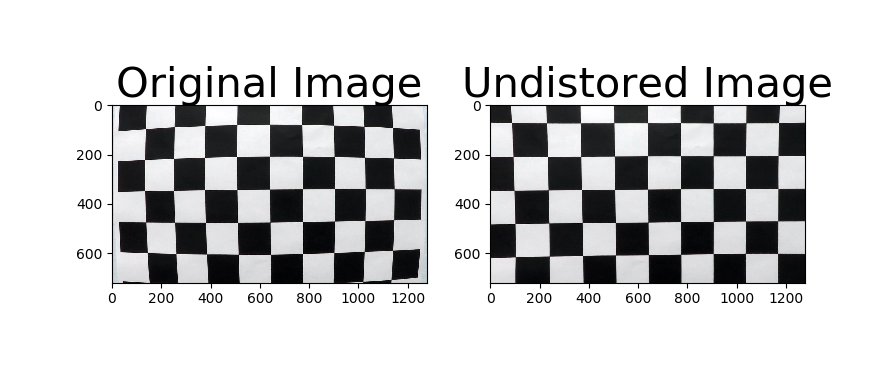
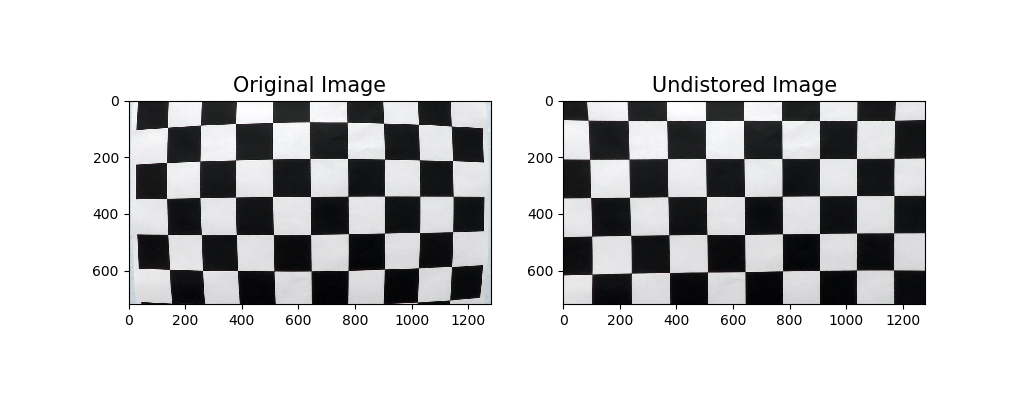
undistort the test_images

diff --git a/helpers.py b/helpers.py
@@ -1,0 +1,75 @@
+import numpy as np 
+import cv2
+import matplotlib.pyplot as plt 
+import matplotlib.image as mpimg
+
+def color_grid_thresh(img, s_thresh=(170,255), sx_thresh=(20, 100)):
+	img = np.copy(img)
+	# Convert to HLS color space and separate the V channel
+	hls = cv2.cvtColor(img, cv2.COLOR_RGB2HLS)
+	l_channel = hls[:,:,1]
+	s_channel = hls[:,:,2]
+	# Sobel x
+	sobelx = cv2.Sobel(l_channel, cv2.CV_64F, 1, 0) # Take the derivateive in x
+	abs_sobelx = np.absolute(sobelx) # Absolute x derivateive to accentuate lines
+	scaled_sobel = np.uint8(255*abs_sobelx/np.max(abs_sobelx))
+
+	# Threshold x gradient
+	sxbinary = np.zeros_like(scaled_sobel)
+	sxbinary[(scaled_sobel >= sx_thresh[0]) & (scaled_sobel <= sx_thresh[1])] = 1
+
+	# Threshold color channel
+	s_binary = np.zeros_like(s_channel)
+	s_binary[(s_channel >= s_thresh[0]) & (s_channel <= s_thresh[1])] = 1
+
+	# combine the two binary
+	binary = sxbinary | s_binary
+
+	# Stack each channel (for visual check the pixal sourse)
+	# color_binary = np.dstack((np.zeros_like(sxbinary), sxbinary,s_binary)) * 255
+	return binary
+
+
+
+
+# # Define a class to receive the characteristics of each line detection
+# class Line():
+# 	def __init__(self):
+# 		# was the line detected in the last iteration?
+# 		self.detected = Flase
+# 		# x values of the last n fits of the line
+# 		self.recent_xfitted = []
+# 		# average x values of the fitted line over the last n iterations
+# 		self.bestx = None
+# 		# polynomial coefficients for the most recent fit
+# 		self.current_fit = [np.array([Flase])]
+# 		# radius of curvature of the line in some units
+# 		self.radius_of_curvature = None
+# 		# distance in meters of vechicle center from the line
+# 		self.line_base_pos = None
+# 		# difference in fit coefficients between last and new fits
+# 		self.diffs = np.array([0,0,0], dtype='float')
+# 		# x values for detected line pixels
+# 		self.allx = None
+# 		# y values for detected line pixels
+# 		self.ally = None
+
+
+# # Drawing
+# # Create an image to draw the lines on
+# warp_zero = np.zeros_like(warped).astype(np.uint8)
+# color_warp = np.dstack((warp_zero, warp_zero, warp_zero))
+
+# # Recast the x and y points into usable format for cv2.fillPoly()
+# pts_left = np.array([np.transpose(np.vstack([left_fitx, ploty]))])
+# pts_right = np.array([np.flipud(np.transpose(np.vstack([right_fitx, ploty])))])
+# pts = np.hstack((pts_left, pts_right))
+
+# # Draw the lane onto the warped blank image
+# cv2.fillPoly(color_warp, np.int_([pts]), (0,255,0))
+
+# # Warp the blank back to original image space using inverse perspective matrix(Minv)
+# newwarp = cv2.warpPerspective(color_warp, Minv, (image.shape[1], image.shape[0]))
+# # Combine the result with the original image
+# result = cv2.addWeighted(undist, 1, newwarp, 0.3, 0)
+# plt.imshow(result)

diff --git a/pipeline.py b/pipeline.py
@@ -1,0 +1,41 @@
+import numpy as np 
+import cv2
+import matplotlib.pyplot as plt 
+import matplotlib.image as mpimg
+import pickle
+import glob
+
+from helpers import *
+
+# Read the pickle file
+pickle_file = open("camera_cal/camera_cal.p", "rb")
+dist_pickle = pickle.load(pickle_file)
+mtx = dist_pickle["mtx"]  
+dist = dist_pickle["dist"]
+
+# Read image
+image = cv2.imread("test_images/test5.jpg")
+
+# distort the image
+image_dist = cv2.undistort(image, mtx, dist, None, mtx)
+
+# Undistort the images in test image folder
+image_files = glob.glob("test_images/*.jpg")
+for idx, file in enumerate(image_files):
+	print(file)
+	img = cv2.imread(file)
+	image_dist = cv2.undistort(img, mtx, dist, None, mtx)
+	file_name = file.split("\\")[-1]
+	print(file_name)
+	out_image = "output_images/undistort/"+file_name
+	print(out_image)
+	cv2.imwrite(out_image, image_dist)
+
+
+# # apply thresholding
+# s_thresh=(170,255)
+# sx_thresh=(20, 100)
+# image_threshed = color_grid_thresh(image_dist, s_thresh=s_thresh, sx_thresh=sx_thresh)
+
+# plt.imshow(image_threshed, cmap='gray')
+# plt.show()

diff --git a/camera_cal/camera_calibration.py b/camera_cal/camera_calibration.py
@@ -62,8 +62,8 @@ pickle.dump(dist_pickle, open("camera_cal.p", "wb"))
 # Visualize undistortion
 f, (ax1,ax2) = plt.subplots(1,2, figsize=(20,10))
 ax1.imshow(img)
-ax1.set_title('Original Image', fontsize=30)
+ax1.set_title('Original Image', fontsize=15)
 ax2.imshow(dst)
-ax2.set_title('Undistored Image', fontsize=30)
+ax2.set_title('Undistored Image', fontsize=15)
 
 plt.show()

diff --git a/helper/view_perspective.py b/helper/view_perspective.py
@@ -1,0 +1,6 @@
+import numpy as np 
+import cv2
+import matplotlib.pyplot as plt 
+import matplotlib.image as mpimg
+
+image = mpimg.imread()

diff --git a/README.md b/README.md
@@ -1,9 +1,122 @@
 
+**Advanced Lane Finding Project**
 
-### Steps
-1. camera calibration
-2. distorition correction
-3. color & gradient threshold
-4. perspective transform
-5. detect lane lines
-6. determine the lan curvature
+The goals / steps of this project are the following:
+
+* Compute the camera calibration matrix and distortion coefficients given a set of chessboard images.
+* Apply a distortion correction to raw images.
+* Use color transforms, gradients, etc., to create a thresholded binary image.
+* Apply a perspective transform to rectify binary image ("birds-eye view").
+* Detect lane pixels and fit to find the lane boundary.
+* Determine the curvature of the lane and vehicle position with respect to center.
+* Warp the detected lane boundaries back onto the original image.
+* Output visual display of the lane boundaries and numerical estimation of lane curvature and vehicle position.
+
+[//]: # (Image References)
+
+[image1]: ./examples/undistort_output.png "Undistorted"
+[image2]: ./test_images/test1.jpg "Road Transformed"
+[image3]: ./examples/binary_combo_example.jpg "Binary Example"
+[image4]: ./examples/warped_straight_lines.jpg "Warp Example"
+[image5]: ./examples/color_fit_lines.jpg "Fit Visual"
+[image6]: ./examples/example_output.jpg "Output"
+[video1]: ./project_video.mp4 "Video"
+
+## [Rubric](https://review.udacity.com/#!/rubrics/571/view) Points
+
+### Here I will consider the rubric points individually and describe how I addressed each point in my implementation.  
+
+---
+
+### Writeup / README
+
+#### 1. Provide a Writeup / README that includes all the rubric points and how you addressed each one.  You can submit your writeup as markdown or pdf.  [Here](https://github.com/udacity/CarND-Advanced-Lane-Lines/blob/master/writeup_template.md) is a template writeup for this project you can use as a guide and a starting point.  
+
+You're reading it!
+
+### Camera Calibration
+
+#### 1. Briefly state how you computed the camera matrix and distortion coefficients. Provide an example of a distortion corrected calibration image.
+
+The code for this step is contained in the first code cell of the IPython notebook located in "./examples/example.ipynb" (or in lines # through # of the file called `some_file.py`).  
+
+I start by preparing "object points", which will be the (x, y, z) coordinates of the chessboard corners in the world. Here I am assuming the chessboard is fixed on the (x, y) plane at z=0, such that the object points are the same for each calibration image.  Thus, `objp` is just a replicated array of coordinates, and `objpoints` will be appended with a copy of it every time I successfully detect all chessboard corners in a test image.  `imgpoints` will be appended with the (x, y) pixel position of each of the corners in the image plane with each successful chessboard detection.  
+
+I then used the output `objpoints` and `imgpoints` to compute the camera calibration and distortion coefficients using the `cv2.calibrateCamera()` function.  I applied this distortion correction to the test image using the `cv2.undistort()` function and obtained this result: 
+
+![alt text][image1]
+
+### Pipeline (single images)
+
+#### 1. Provide an example of a distortion-corrected image.
+
+To demonstrate this step, I will describe how I apply the distortion correction to one of the test images like this one:
+![alt text][image2]
+
+#### 2. Describe how (and identify where in your code) you used color transforms, gradients or other methods to create a thresholded binary image.  Provide an example of a binary image result.
+
+I used a combination of color and gradient thresholds to generate a binary image (thresholding steps at lines # through # in `another_file.py`).  Here's an example of my output for this step.  (note: this is not actually from one of the test images)
+
+![alt text][image3]
+
+#### 3. Describe how (and identify where in your code) you performed a perspective transform and provide an example of a transformed image.
+
+The code for my perspective transform includes a function called `warper()`, which appears in lines 1 through 8 in the file `example.py` (output_images/examples/example.py) (or, for example, in the 3rd code cell of the IPython notebook).  The `warper()` function takes as inputs an image (`img`), as well as source (`src`) and destination (`dst`) points.  I chose the hardcode the source and destination points in the following manner:
+
+```python
+src = np.float32(
+    [[(img_size[0] / 2) - 55, img_size[1] / 2 + 100],
+    [((img_size[0] / 6) - 10), img_size[1]],
+    [(img_size[0] * 5 / 6) + 60, img_size[1]],
+    [(img_size[0] / 2 + 55), img_size[1] / 2 + 100]])
+dst = np.float32(
+    [[(img_size[0] / 4), 0],
+    [(img_size[0] / 4), img_size[1]],
+    [(img_size[0] * 3 / 4), img_size[1]],
+    [(img_size[0] * 3 / 4), 0]])
+```
+
+This resulted in the following source and destination points:
+
+| Source        | Destination   | 
+|:-------------:|:-------------:| 
+| 585, 460      | 320, 0        | 
+| 203, 720      | 320, 720      |
+| 1127, 720     | 960, 720      |
+| 695, 460      | 960, 0        |
+
+I verified that my perspective transform was working as expected by drawing the `src` and `dst` points onto a test image and its warped counterpart to verify that the lines appear parallel in the warped image.
+
+![alt text][image4]
+
+#### 4. Describe how (and identify where in your code) you identified lane-line pixels and fit their positions with a polynomial?
+
+Then I did some other stuff and fit my lane lines with a 2nd order polynomial kinda like this:
+
+![alt text][image5]
+
+#### 5. Describe how (and identify where in your code) you calculated the radius of curvature of the lane and the position of the vehicle with respect to center.
+
+I did this in lines # through # in my code in `my_other_file.py`
+
+#### 6. Provide an example image of your result plotted back down onto the road such that the lane area is identified clearly.
+
+I implemented this step in lines # through # in my code in `yet_another_file.py` in the function `map_lane()`.  Here is an example of my result on a test image:
+
+![alt text][image6]
+
+---
+
+### Pipeline (video)
+
+#### 1. Provide a link to your final video output.  Your pipeline should perform reasonably well on the entire project video (wobbly lines are ok but no catastrophic failures that would cause the car to drive off the road!).
+
+Here's a [link to my video result](./project_video.mp4)
+
+---
+
+### Discussion
+
+#### 1. Briefly discuss any problems / issues you faced in your implementation of this project.  Where will your pipeline likely fail?  What could you do to make it more robust?
+
+Here I'll talk about the approach I took, what techniques I used, what worked and why, where the pipeline might fail and how I might improve it if I were going to pursue this project further.  

diff --git a/camera_cal/README.md b/camera_cal/README.md
@@ -1,7 +1,7 @@
 ### Calibration the Camera
 
 Using the chessboard images to calibrate the camera.
-the calibration parameter will install into a pickle file for further use.
+the calibration parameter will instore into a pickle file for further use.
 
 ![dist_example](dist_example.png)
 
@@ -15,3 +15,4 @@ the ny is the inner points in y direction
 
 #### Files
 * **camera_balibration** the python scrip which used to calibration the camera.
+* **camera_cal.p** the pickle file which instore the camera_cal parameters
